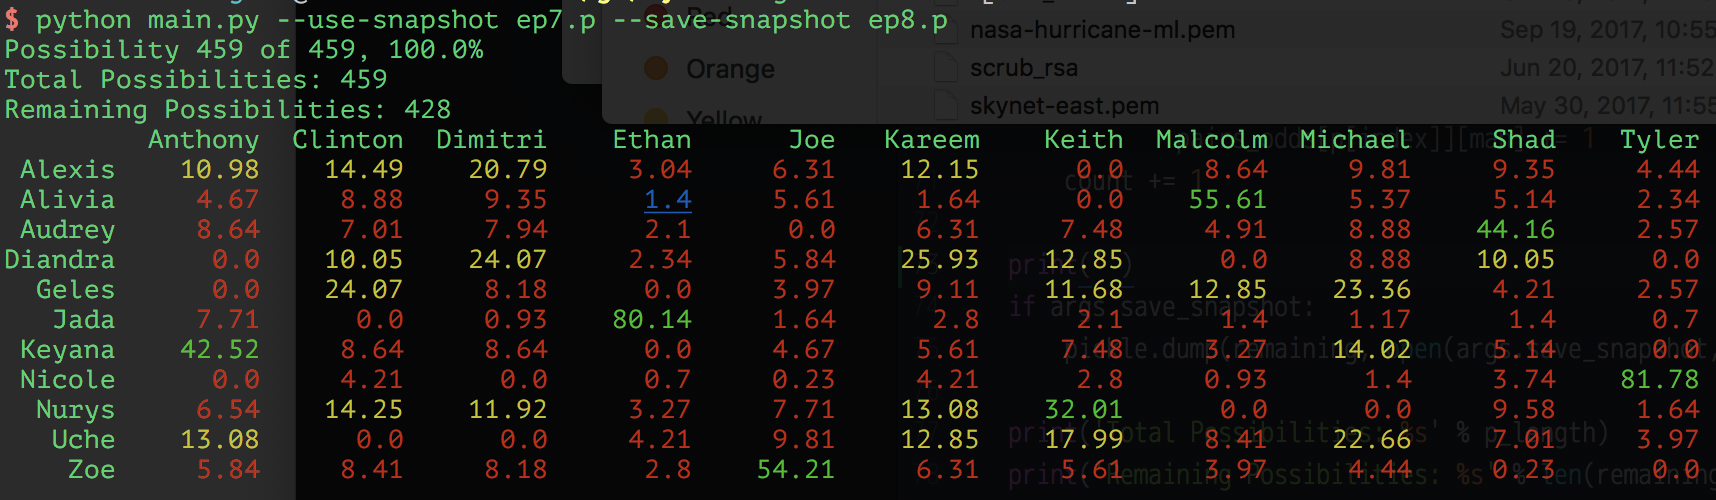
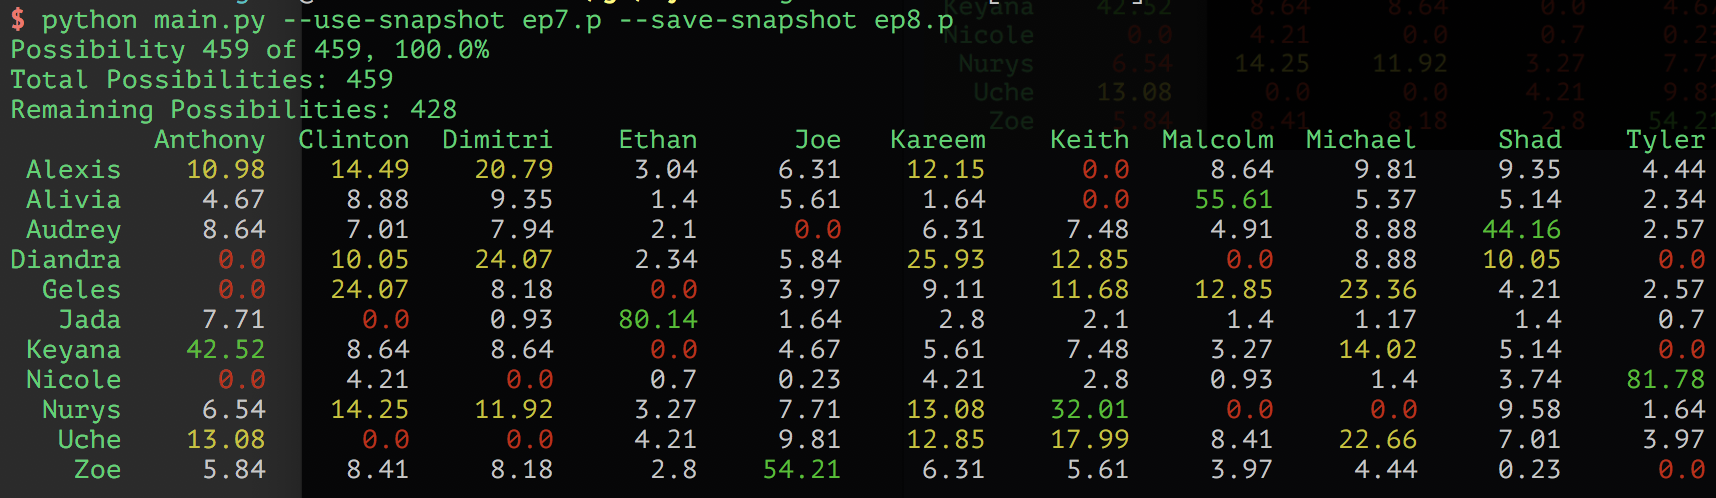
Update color scale

diff --git a/main.py b/main.py
@@ -84,8 +84,10 @@ def output (odds):
     return colored(str(round(num, 2)).rjust(mol, ' '), get_color(num))
 
 def get_color(num):
-    if num < 10:
+    if num == 0:
         return 'red'
+    if num < 10:
+        return 'white'
     if num < 30:
         return 'yellow'
     return 'green'
